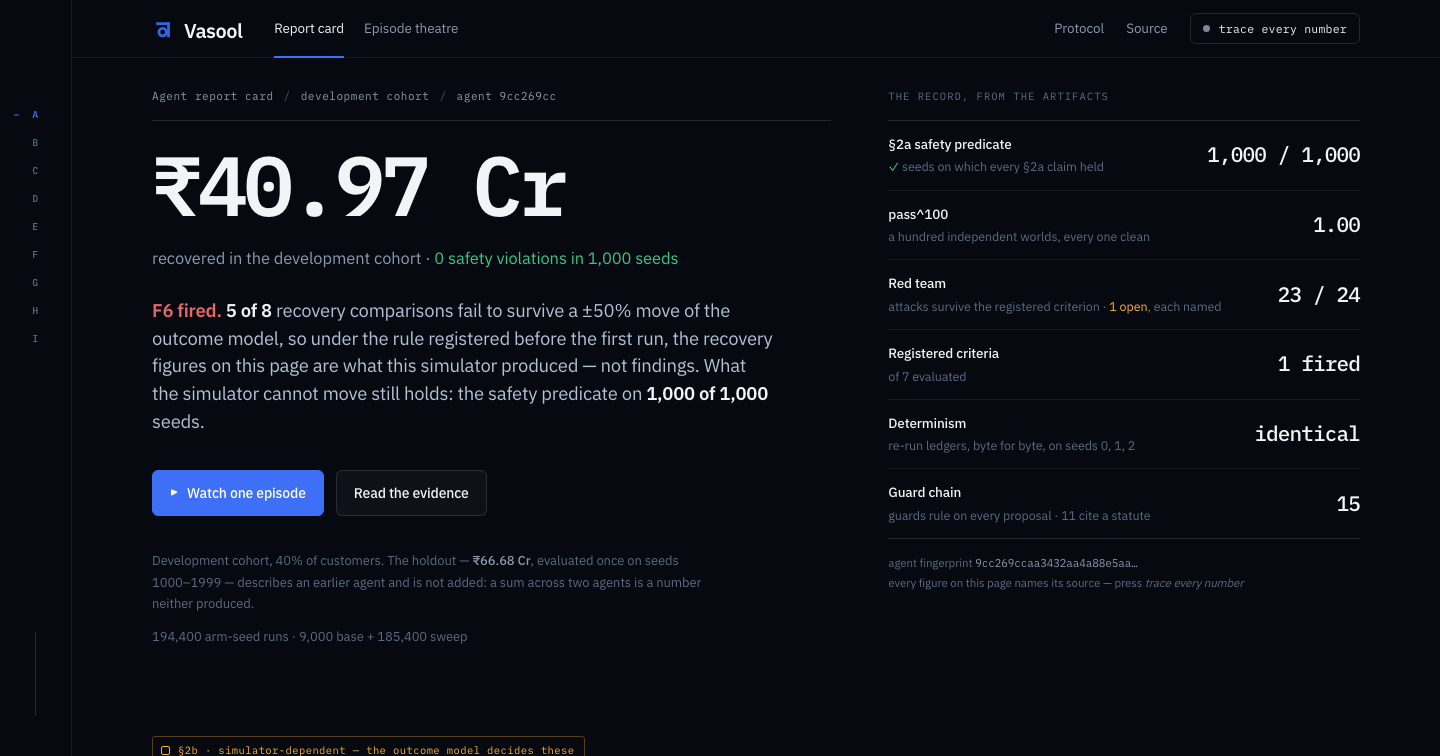
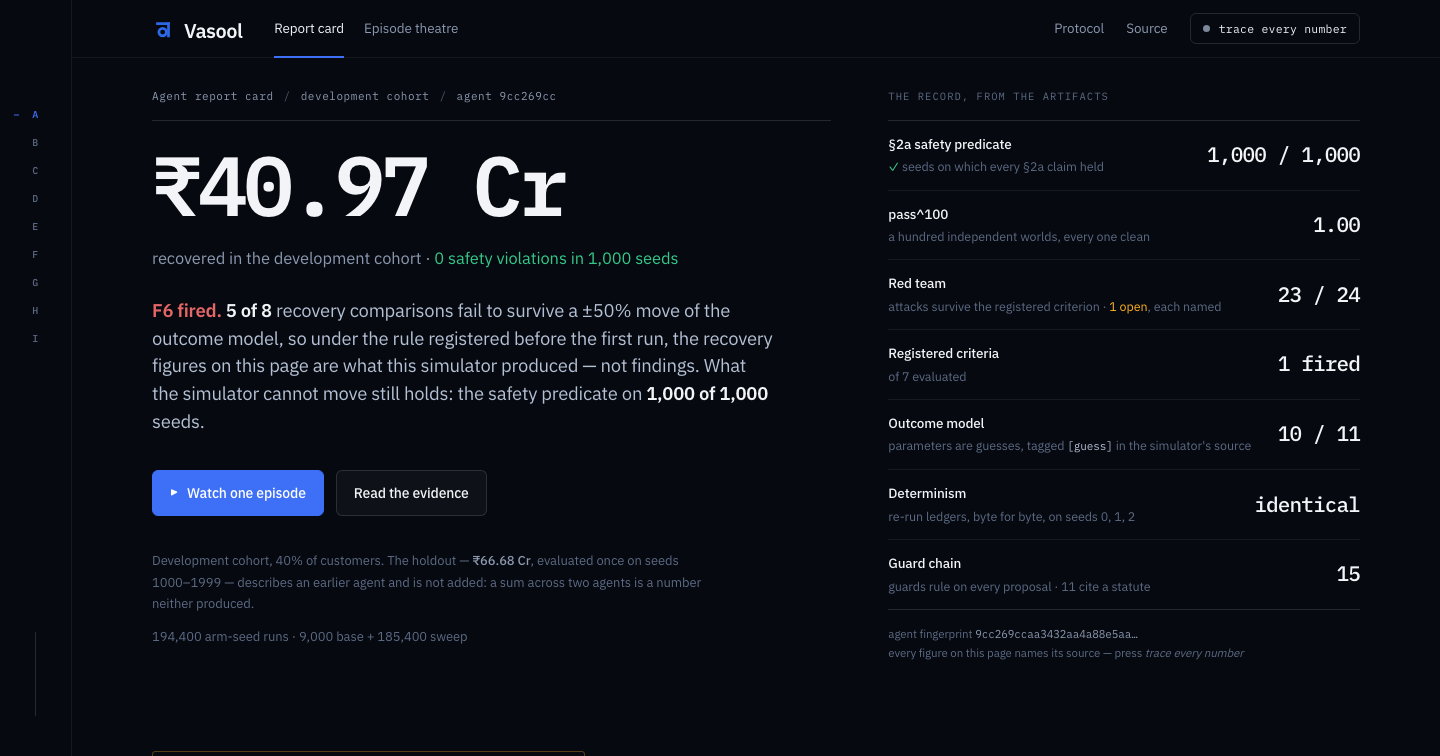
The guess fraction was typed in four places, and three were wrong
§4 registered the outcome model's [guess] fraction as 10/11 on 2026-09-16,
and it requires the fraction to appear "in the report card as prominently as
the recovery rate". The page never met that: its only copy was a sentence
typed into the sensitivity exhibit, which still said "eight of the nine", as
did README's limits section and the sentence under §4's own parameter table.

  - tools/report.py counts the fraction from OUTCOME_PARAMETERS' own tags, the
    registry tests/windtunnel/test_parameters.py already holds §4 to. The
    record beside the headline now carries it, traced to that registry, and
    the sensitivity exhibit's caption reads it from the same place.

  - §4's table sentence says ten of the eleven and names the three parameters
    §10 added since the table was registered. Recorded as §10's sixty-sixth
    row, POST-HOC No: no value, tag or threshold changes.

  - README: "would recover 49% of your failed payments" becomes 43%, and the
    sentence about where the fraction appears now describes what the page
    does.

Two tests, because none of this was caught. One holds README's sentence and
the renderer's count to §4. The other reads any whole-number "recover N%" in
README against the manifest: the percentage check needed two decimals, so
"49%" survived four re-runs. test_parameters' table parser used the old
sentence as its end marker and now follows the new one.

A fourth copy, the module docstring in windtunnel/parameters.py that still
[…]

diff --git a/docs/index.html b/docs/index.html
@@ -12,7 +12,7 @@
     <meta property="og:description" content="A payment-recovery agent measured against a protocol registered before it ran: what it recovered, what it refused, what still beats it, and a ledger you can verify in your browser.">
     <meta property="og:url" content="https://sriramvarun0636.github.io/Vasool/">
     <meta property="og:image" content="https://sriramvarun0636.github.io/Vasool/assets/dashboard.png">
-    <meta property="og:image:alt" content="The Vasool report card: Rs 40.97 Cr recovered in the development cohort with 0 safety violations in 1,000 seeds. Beneath it, falsification criterion F6 has fired — 5 of 8 recovery comparisons fail to survive a ±50% move of the outcome model — so the recovery figures are presented as what this simulator produced, not findings. The fresh holdout's Rs 66.68 Cr describes an earlier agent and is not added. Beside the headline, the record read off the artifacts: the section 2a safety predicate held on 1,000 of 1,000 seeds, pass^100 of 1.00, 23 of 24 attacks survived the registered criterion with 1 open and named, 1 registered criterion fired of the 7 evaluated, re-run ledgers identical byte for byte, and a chain of 15 guards of which 11 cite a statute.">
+    <meta property="og:image:alt" content="The Vasool report card: Rs 40.97 Cr recovered in the development cohort with 0 safety violations in 1,000 seeds. Beneath it, falsification criterion F6 has fired — 5 of 8 recovery comparisons fail to survive a ±50% move of the outcome model — so the recovery figures are presented as what this simulator produced, not findings. The fresh holdout's Rs 66.68 Cr describes an earlier agent and is not added. Beside the headline, the record read off the artifacts: the section 2a safety predicate held on 1,000 of 1,000 seeds, pass^100 of 1.00, 23 of 24 attacks survived the registered criterion with 1 open and named, 1 registered criterion fired of the 7 evaluated, 10 of the 11 outcome-model parameters tagged as guesses, re-run ledgers identical byte for byte, and a chain of 15 guards of which 11 cite a statute.">
     <meta name="twitter:card" content="summary_large_image">
     <link rel="preconnect" href="https://fonts.googleapis.com">
     <link rel="preconnect" href="https://fonts.gstatic.com" crossorigin>
@@ -1125,6 +1125,9 @@
     <script type="application/json" id="chain-data">
 {"guards": [{"id": "G01", "name": "IdempotencyGuard", "statute": null}, {"id": "G02", "name": "RiskBlockGuard", "statute": "Card network norms on retrying declined authorisations"}, {"id": "G03", "name": "ConsentGuard", "statute": "DPDP Act 2023 s.6 + DPDP Rules 2025"}, {"id": "G14", "name": "MandateStateGuard", "statute": "RBI E-mandate Framework 2026 \u00a74 \u2014 debit only under a live mandate"}, {"id": "G04", "name": "RetryCapGuard", "statute": null}, {"id": "G05", "name": "PromiseToPayGuard", "statute": "RBI Fair Practices Code (fair dealing)"}, {"id": "G06", "name": "DNDGuard", "statute": "TRAI TCCCPR 2018 (as amended Feb 2025)"}, {"id": "G07", "name": "FrequencyCapGuard", "statute": "RBI Fair Practices Code (anti-harassment)"}, {"id": "G08", "name": "ContactWindowGuard", "statute": "RBI Fair Practices Code \u00b655"}, {"id": "G15", "name": "AutopayPeakHoursGuard", "statute": "NPCI OC-215A/2025-26 \u2014 no Autopay execution or notice request at peak"}, {"id": "G09", "name": "PreDebitNoticeGuard", "statute": "RBI E-mandate Framework 2026 \u00a76(a) \u2014 pre-debit notification, 24 hours"}, {"id": "G10", "name": "AFAThresholdGuard", "statute": "RBI E-mandate Framework 2026 \u00a78 \u2014 AFA above \u20b915,000, or \u20b91,00,000 by category"}, {"id": "G11", "name": "DLTTemplateGuard", "statute": "TRAI TCCCPR \u2014 DLT template registration (Feb 2025 amendment)"}, {"id": "G12", "name": "SpendCapGuard", "statute": null}, {"id": "G13", "name": "HumanApprovalGuard", "statute": null}], "count": 15, "statutes": 11}
     </script>
+    <script type="application/json" id="model-data">
+{"guessed": 10, "total": 11, "tags": {"retry_success_transient": "guess", "retry_success_liquidity_in_window": "guess", "retry_success_liquidity_out_of_window": "guess", "retry_success_instrument_dead": "derived", "reauth_link_completion": "guess", "reattempt_link_completion": "guess", "out_of_band_per_episode_day": "guess", "salary_window_uplift": "guess", "retry_success_unpriced_class": "guess", "upi_in_flight_debited_rate": "guess", "status_answer_pending_rate": "guess"}}
+    </script>
 
     <nav id="spine" aria-label="Exhibits">
         <!-- Generated by the script from the exhibits present -->
@@ -1348,7 +1351,7 @@
                 <h2 class="exhibit-title">EXHIBIT C &mdash; <span class="ex-name">Does It Survive the Sweep?</span></h2>
             </header>
             <p class="viz-caption">
-                Eight of the nine outcome parameters are guesses. So every registered parameter is
+                <span id="guess-lede">Most of the outcome parameters are guesses.</span> So every registered parameter is
                 swept independently at &minus;50%, &minus;25%, +25% and +50% of its value, 9 arms at a
                 time, and each comparison is re-tested in every configuration. A cell is marked only
                 when the comparison <em>fails to survive</em>; the unremarkable majority stays
@@ -1679,6 +1682,7 @@ and it is unreachable from all 10 execution roots.
         // by tools/report.py at build time. It used to be a hand-written list
         // in this file -- the kind of copy INC-008 was about.
         const CHAIN = readArtifact("chain-data");
+        const MODEL = readArtifact("model-data");
 
         // --- CRYPTO HELPER ------------------------------------------------------
         async function hashString(str) {
@@ -1713,7 +1717,9 @@ and it is unreachable from all 10 execution roots.
             return node;
         }
         function words(n) {
-            const w = ["no", "one", "two", "three", "four", "five", "six", "seven", "eight", "nine", "ten"];
+            const w = ["no", "one", "two", "three", "four", "five", "six", "seven", "eight", "nine", "ten",
+                       "eleven", "twelve", "thirteen", "fourteen", "fifteen", "sixteen", "seventeen",
+                       "eighteen", "nineteen", "twenty"];
             return (n >= 0 && n < w.length) ? w[n] : new Intl.NumberFormat().format(n);
         }
         const nf = (n) => new Intl.NumberFormat().format(n);
@@ -1750,7 +1756,8 @@ and it is unreachable from all 10 execution roots.
                 holdout: "out/holdout/evaluation.json",
                 redteam: "out/adversary/redteam.json",
                 shadow: "out/shadow/classifier_comparison.json",
-                chain: "vasool/policy/registry.py (GUARD_CHAIN)"
+                chain: "vasool/policy/registry.py (GUARD_CHAIN)",
+                model: "windtunnel/parameters.py (OUTCOME_PARAMETERS)"
             };
             function traceIn(artifact, el, path, text) {
                 if (!el) return el;
@@ -1969,6 +1976,13 @@ and it is unreachable from all 10 execution roots.
                     [`of ${fKeys.length - idle.length} evaluated`,
                      idle.length ? ` · <span class="warn">${idle.join(", ")} not evaluated here</span>` : ""]]);
             }
+            // §4 requires the guess fraction "in the report card as prominently as
+            // the recovery rate". Read from the parameters' own tags, not typed.
+            if (typeof MODEL?.guessed === "number" && typeof MODEL?.total === "number") {
+                glanceRows.push(["Outcome model",
+                    traceIn("model", mk("span"), "guessed", `${MODEL.guessed} / ${MODEL.total}`),
+                    ["parameters are guesses, tagged <code>[guess]</code> in the simulator's source"]]);
+            }
             if (EVAL?.determinism) {
                 const det = EVAL.determinism;
                 glanceRows.push(["Determinism",
@@ -1990,6 +2004,15 @@ and it is unreachable from all 10 execution roots.
                 row.append(l, v, s);
                 glance.appendChild(row);
             });
+            const guessLede = document.getElementById("guess-lede");
+            if (guessLede && typeof MODEL?.guessed === "number" && typeof MODEL?.total === "number") {
+                const lead = words(MODEL.guessed);
+                compose(guessLede, [
+                    traceIn("model", mk("span"), "guessed",
+                            `${lead.charAt(0).toUpperCase()}${lead.slice(1)} of the ${words(MODEL.total)}`),
+                    " outcome parameters are guesses."
+                ]);
+            }
             const glanceFoot = document.getElementById("glance-foot");
             if (glanceFoot && typeof EVAL.agent_fingerprint === "string") {
                 compose(glanceFoot, [

diff --git a/tests/test_report.py b/tests/test_report.py
@@ -137,6 +137,9 @@ class TestTraceDiscipline:
             if artifact == "chain":
                 assert path in {"count", "statutes"}, f"chain has no {path!r}"
                 continue
+            if artifact == "model":
+                assert path in {"guessed", "total"}, f"the outcome model has no {path!r}"
+                continue
             source = files[artifact]
             if not source.exists():
                 continue
@@ -364,6 +367,50 @@ class TestReadmeDoesNotDrift:
             f"README prints \u20b9{stale} Cr, which no manifest produces. "
             f"Manifest figures are {sorted(allowed)}."
         )
+
+    def test_a_whole_number_recovery_rate_is_still_true(self, report, readme):
+        """A rate written without decimals still has to be one the manifest supports.
+
+        The percentage check above reads figures with two decimals, so "would
+        recover 49% of *your* failed payments" sat in the limits section for
+        four re-runs after Vasool stopped recovering 49% of anything. Any
+        "recover N%" is read here against every arm's rate, rounded.
+        """
+        rates = {round(a["recovery_rate_mean"] * 100) for a in report["per_arm"].values()}
+        for claimed in re.findall(r"\brecover\w*\s+(\d{1,3})% of", readme):
+            assert int(claimed) in rates, (
+                f"README says an arm recovers {claimed}%; the manifest's rates round to {sorted(rates)}"
+            )
+
+    def test_the_guess_fraction_is_quoted_as_section_4_states_it(self, readme):
+        """README and the dashboard both carry §4's guess fraction.
+
+        tests/windtunnel/test_parameters.py holds §4's fraction to the tags in
+        the simulator's source; nothing held the other copies to §4, and on
+        2026-09-22 README and the dashboard were both found still saying
+        "eight of the nine" six days after it became 10/11. README's sentence
+        is read here, and the dashboard's figure is the renderer's own count.
+        """
+        words = ["zero", "one", "two", "three", "four", "five", "six", "seven", "eight", "nine",
+                 "ten", "eleven", "twelve", "thirteen", "fourteen", "fifteen", "sixteen",
+                 "seventeen", "eighteen", "nineteen", "twenty"]
+        protocol = (REPO_ROOT / "docs" / "EVALUATION.md").read_text()
+        match = re.search(r"fraction in the outcome model — (\d+)/(\d+) —", protocol)
+        assert match, "§4 no longer states a guess fraction"
+        guessed, total = (words[int(g)] for g in match.groups())
+        phrase = f"{guessed} of the {total} outcome parameters are"
+        assert phrase in readme.lower(), f"README.md does not say \"{phrase.capitalize()}…\", as §4 does"
+
+        import importlib.util
+        spec = importlib.util.spec_from_file_location("_report_model", REPO_ROOT / "tools" / "report.py")
+        module = importlib.util.module_from_spec(spec)
+        spec.loader.exec_module(module)
+        model = module.outcome_model()
+        assert (model["guessed"], model["total"]) == tuple(int(g) for g in match.groups()), (
+            f"the dashboard would print {model['guessed']} / {model['total']}; §4 says {match.group(1)}/{match.group(2)}"
+        )
+        template = (REPO_ROOT / "tools" / "templates" / "report.html.j2").read_text()
+        assert "of the nine outcome parameters" not in template.lower(), "the template types the fraction again"
 
     def test_every_criterion_verdict_matches_the_manifest(self, report, readme):
         """The falsification table says, per criterion, whether it fired.

diff --git a/tests/windtunnel/test_parameters.py b/tests/windtunnel/test_parameters.py
@@ -55,7 +55,7 @@ def _rows(section: str, next_section: str) -> list[list[str]]:
 def _section_4_table() -> dict[str, tuple[float, str]]:
     """§4's registered parameters: label -> (value, provenance tag)."""
     registered = {}
-    for label, value, provenance in _rows("## 4. The outcome model", "**Eight of the nine"):
+    for label, value, provenance in _rows("## 4. The outcome model", "**Ten of the eleven"):
         number = float(re.search(r"\*\*([\d.]+)", value).group(1))
         tag = re.search(r"\[(\w+)\]", provenance).group(1)
         registered[label] = (number, tag)
@@ -116,17 +116,19 @@ class TestSection4Correspondence:
         """§4 calls the outcome model's guess fraction "itself a headline
         result" and the report card prints it as prominently as the recovery
         rate. It counts the whole outcome model — the eight registered rows
-        plus retry_success_unpriced_class, added under §10 — so adding a
-        parameter by amendment moves it, and a parameter added without moving
-        it fails here rather than quietly making the claim false."""
+        plus every parameter §10 has added since, retry_success_unpriced_class
+        and the two UPI Autopay rates — so adding a parameter by amendment
+        moves it, and a parameter added without moving it fails here rather
+        than quietly making the claim false."""
         guesses = [p for p in OUTCOME_PARAMETERS.values() if p.provenance is Provenance.GUESS]
         assert (len(guesses), len(OUTCOME_PARAMETERS)) == _registered_guess_fraction()
 
     def test_the_world_parameters_are_not_inside_that_fraction(self):
-        """§10's world-shape parameters are guesses too, and there are twelve
-        of them. The document scopes its headline fraction to the outcome
-        model in as many words; if the report card ever prints 8/9 over the
-        full registry it will be printing 20/21 and calling it 8/9."""
+        """§10's world-shape parameters are guesses too. The document scopes
+        its headline fraction to the outcome model in as many words, so a report
+        card that counted the full registry would print a different fraction
+        under the same name. (This docstring used to carry both counts; they
+        went stale twice, so it no longer does.)"""
         _, total = _registered_guess_fraction()
         assert total == len(OUTCOME_PARAMETERS) < len(OUTCOME_PARAMETERS) + len(WORLD_PARAMETERS)
 

diff --git a/tools/report.py b/tools/report.py
@@ -64,6 +64,26 @@ def guard_chain() -> dict:
     }
 
 
+def outcome_model() -> dict:
+    """The outcome model's `[guess]` fraction, counted from the parameters' own tags.
+
+    §4 calls it "itself a headline result" and requires it to appear "in the
+    report card as prominently as the recovery rate". Until 2026-09-22 the page
+    carried it only as a sentence typed into the sensitivity exhibit, which
+    still said "eight of the nine" six days after §10's 2026-09-16 row moved
+    the fraction to 10/11. It is counted here from `OUTCOME_PARAMETERS` — the
+    registry tests/windtunnel/test_parameters.py holds §4's own figure to — so
+    the page, the protocol and the code cannot disagree about it.
+    """
+    from windtunnel.parameters import OUTCOME_PARAMETERS, Provenance
+
+    return {
+        "guessed": sum(p.provenance is Provenance.GUESS for p in OUTCOME_PARAMETERS.values()),
+        "total": len(OUTCOME_PARAMETERS),
+        "tags": {name: p.provenance.value for name, p in OUTCOME_PARAMETERS.items()},
+    }
+
+
 def build_report(json_path: pathlib.Path, out_path: pathlib.Path) -> None:
     if not json_path.exists():
         print(f"error: {json_path} not found. run 'make sweeps' first.", file=sys.stderr)
@@ -351,6 +371,7 @@ and it is unreachable from all {len(g['acting_roots'])} execution roots.
         redteam_json=json.dumps(redteam_data),
         holdout_json=json.dumps(holdout_data),
         chain_json=json.dumps(guard_chain()),
+        model_json=json.dumps(outcome_model()),
         logo_svg=logo_svg,
         hero_scope=hero_scope,
         airgap_svg=airgap_svg,

diff --git a/docs/EVALUATION.md b/docs/EVALUATION.md
@@ -206,10 +206,11 @@ with no tag fails a test.
 | P(out-of-band settlement, per episode-day) | **0.02** | `[guess]` |
 | Salary-window balance uplift multiplier | **2.0×** | `[guess]` |
 
-**Eight of the nine parameters are `[guess]`.** The eight rows above are
-seven guesses and one definitional zero; the ninth,
-`retry_success_unpriced_class`, was added under §10 after this table was
-registered and is a guess as well. Conditional retry-success probabilities at
+**Ten of the eleven parameters are `[guess]`.** The eight rows above are
+seven guesses and one definitional zero; `retry_success_unpriced_class` was
+added under §10 after this table was registered, and
+`upi_in_flight_debited_rate` and `status_answer_pending_rate` arrived with UPI
+Autopay (§10, 2026-09-16). All three are guesses as well. Conditional retry-success probabilities at
 this granularity are not published by anyone — not by NPCI, not by the
 PA/PGs, not in any paper I could find — and inventing a citation for them
 would be the first dishonest sentence in this repository. So they are my
@@ -510,6 +511,7 @@ replaces for every row below, retroactively (§10, 2026-08-24).
 | 2026-09-21 | **The production tranche and A01, registered together because they move the fingerprint once.** §7's grid was just run at power, and any change under `vasool/` or `windtunnel/` makes all 185,400 of its rows foreign. So the two remaining pieces of code work are registered as one batch, with the re-runs they cost named here rather than discovered afterwards. **Part one — what production needs, and the one thing it will not get.** A `FactStore` for a real deployment (`vasool/policy/sql_store.py`), a **composition root** that is the only module in the system permitted to read the environment, a **`tick()` driver** that advances due work on a schedule and uses `vasool/policy/partition.py` to take only the identities this worker owns, and a **startup check** that refuses to boot without `VASOOL_ID_PEPPER` or with the public test pepper — `customer_id` is an HMAC under it, §3c's split is keyed on that id, and a process that starts with the wrong one writes a ledger nobody can join to anything. **The store is SQLite, not Postgres, and the reason is registered rather than quietly chosen.** `vasool/policy/facts.py` has said "SQLite in production, a dict in the simulator" since it was written, and `vasool/events/store.py` is already SQLite. CI runs the whole suite from a fresh clone **with nothing configured**, which is the property INC-007 exists to protect; a Postgres path could not be exercised there without a service, and an unexercised persistence layer is exactly the unverified claim this repository forbids. Postgres is therefore **not built**, and the limit is stated plainly: one writer, one machine. The partition helper ships with the driver so that the *shape* is right — ownership keyed on `identity_id`, the race unreachable rather than guarded against — and a second process is a Postgres row lock away, not a redesign. **Part two — A01, the last open attack, and what it costs today.** An out-of-band payment carries no join key: no `vasool_entity_id`, no id any `RetryIndex` knows, so `settle_from_webhook` correctly declines to attribute it and the episode stays open while the merchant already has the money (docs/taxonomy.md §9.10). **The exposure is measured before the fix, from re-run #7's own shards:** an out-of-band payment lands on **108,599 of Vasool's 354,788 episodes — 30.6%** — and Vasool takes **34,666 actions after the money had already arrived**. That is the cost of the open attack, in the manifest, and it has been reported as a limit for a month without a number on it. **What is built, and what it deliberately does not do.** A rail-side port, `SettlementLookup`, with a null adapter that answers nothing — so production behaviour is unchanged until somebody wires a real one, the same shape as the identity resolver and the DND registry. When it is wired, reconciliation runs inside `tick()`: for an open episode past its first attempt, ask what the rail captured for that customer since the failure, discard every id the `RetryIndex` claims, and if a payment matches the episode's amount inside a registered window, **halt the episode and escalate it to a person**. It does **not** mark the episode RECOVERED. A matching amount from the same customer in the same window is evidence, not a join key — a second purchase at the same price collides with it — and the failure directions are asymmetric: continuing to chase money already paid is a double-collection hazard, while stopping and asking a human costs at most a delayed recovery. The conservative direction is the one this takes, and the same argument as the identity resolver's refusal to merge on a similarity score. **Registered expectations, before any of it is written.** **(1) A01 flips FAILS → SURVIVES** and **A02, its registered control, must keep surviving** — a fix that closes one by breaking the other has moved the failure. The other twenty-one verdicts must not move. **(2) The registered negative:** `naive_retry` and `retry_plus_contact` are §5's policy-free baselines — no taxonomy, no chain — and reconciliation is policy, so they **must reproduce re-run #7's rows byte for byte, 2,000 of 9,000**. This is the seam re-run #4 got wrong in the other direction, and it is registered explicitly this time: an arm with no taxonomy does not get the taxonomy's hard stop. **(3) Everything else moves, and in a named direction:** `actions_after_out_of_band` **falls sharply** for `vasool`, `vasool_ungated` and A1–A5 — from 34,666 for Vasool — because that counter is the behaviour being fixed. **(4) Vasool's recovery rate is registered to fall, not rise.** An episode that is halted and escalated is not recovered by the agent, and some of those halts will be wrong. The flattering reading — "it recovers more because it stops wasting attempts" — is foreclosed here. **(5) §2a on 1,000 of 1,000 seeds, `pass_k.100` = 1.00, and no criterion firing.** **What it costs.** The production tranche alone is registered as **evaluation-inert**: it adds a store and a driver that no evaluated path calls, so re-run #8 must reproduce re-run #7 on **all 9,000 rows**, and a single differing field is a defect in it. A01 then changes behaviour deliberately, so §7's grid is **re-run in full at power** — another nine hours — rather than adopted, because adoption is sound only where a recomputation shows the rows unchanged and these rows must change. F6's verdict is recomputed on the new agent and reported whichever way it falls. | **Registering the exposure before the fix is the point of this row.** A01 has been open since the attack suite was written and reported as a limit in every README since; "the agent goes on chasing money the merchant already has" is a sentence, and **34,666 actions after the money arrived** is a measurement. Writing it down now means the fix is scored against a number that existed before it. **On SQLite.** The alternative was to write a Postgres adapter nothing in CI could run, describe the system as production-ready on that basis, and hope. INC-007 is the entry in `POSTMORTEM.md` about exactly that failure — an apparatus that runs only where it was built measures the machine it was built on. **On escalating rather than closing.** The temptation is to mark the episode recovered: it reads better, and it would move the headline up. It would also be the agent asserting that money arrived on the strength of an amount match, in a ledger whose whole claim is that every figure is derivable. A person deciding is slower and is the only defensible answer when the join key genuinely does not exist. | **No** — every expectation, direction and threshold above was written before any of this code existed. The exposure figures (108,599 episodes, 34,666 actions) are read from re-run #7's committed shards, which predate the fix and are what it will be scored against. |
 | 2026-09-22 | **The production tranche and A01 land: re-run #8 was inert on every row, re-run #9 closed A01 and held every expectation the base protocol can see, and one metric hid 17,723 terminal episodes until the numbers were read.** **Re-run #8** — the store, the composition root, the driver and the startup check, with nothing evaluated calling any of them — reproduced re-run #7 **byte for byte: 9,000 rows, 225,000 field comparisons, zero differences**, as registered. **Re-run #9** — reconciliation wired, fingerprint `9cc269cc…`. **(1) held:** A01 flips FAILS → SURVIVES, its control A02 keeps surviving, and the other twenty-one verdicts do not move. A27 — the same attack with no settlement lookup wired, which is the shipped default — is registered FAILS and fails, so the suite still carries an open attack and names it: **23 of 24 survive**. **(2) held:** `naive_retry` and `retry_plus_contact` reproduce re-run #7's rows **byte for byte, 2,000 of 9,000**; neither reconciles, and they still take 1,727 and 2,705 actions after the money arrived. **(3) held:** actions after the money had arrived fall from **34,666 to 0** for Vasool, and to 0 for `vasool_ungated` and every one of A1–A5. **(4) held, in the registered direction:** Vasool's recovery rate falls **3.64 points, 46.63% → 42.99%**, its recovered episodes by **12,904**, and **17,723** more episodes are handed to a person, 19,990 → 37,713. Measured with reconciliation switched off, **91 of 1,240** of Vasool's recoveries across three seeds were on episodes the customer had already paid; that count is now zero, so the recovery that disappeared is collection the agent now declines to make twice. `naive_retry` moves from 0.90 points behind to **2.74 ahead** [+2.55, +2.92], on rows that did not change. **(5) partly held:** §2a held on 1,000 of 1,000 seeds, `pass_k.100` is 1.00, and F1–F5 and F7 did not fire. **F6, which needs §7's grid, fired** on the full re-run this batch registered — the next row — and is counted here as a broken expectation, not one the wording can be read around. **INC-013, caught before anything was published.** Re-run #9's first pass showed recovered episodes down 12,904 and `awaiting` up 13,388 while `escalated` moved by 52: the new receipt outcome, `MONEY_MAY_HAVE_ARRIVED`, was in no bucket `windtunnel/metrics.py` counts, and because `awaiting` is a residual the partition summed anyway. The membership test was fixed and the run repeated; the ledger was right throughout (POSTMORTEM.md). **Two limits on the closure** (docs/taxonomy.md §9.10): the port's default answers nothing, so a deployment that wires no lookup is A27; and in this universe every out-of-band payment is for one episode's own amount, drawn from a continuous distribution, so the collision the design accepts never occurs — **201 of 201 halts across five seeds** were on episodes that had genuinely been paid. That is a property of the universe, not evidence about a real book. **What this makes stale:** the fresh holdout of 2026-09-20 and the grid of 2026-09-21 describe `fb76d42e…`; both are reported as describing an earlier agent, and the holdout's single execution is spent and is not repeated. | **The headline fell, as registered, and the fall is the result.** Expectation (4) foreclosed the flattering reading before the code existed, and 91 of 1,240 is what the lost recovery was made of: money the customer had already paid by another route. **On INC-013.** Every check in the repository passed while 17,723 episodes that had reached a person were counted as still in flight, because the one check on the partition is a sum and a residual always sums. The number that was supposed to move and didn't is what found it, which is the argument for registering directions and not only thresholds. | **Partly** — every expectation, direction and threshold is the 2026-09-21 row's, written before any of this code existed, and none is revised here. The INC-013 fix was made after reading re-run #9's output, so it is disclosed as a change that followed a measurement: it corrects which bucket one outcome is counted in and moves no threshold, but the order it happened in is recorded rather than smoothed over. |
 | 2026-09-22 | **§7's grid, re-run at power against the agent that closed A01: F6 fires — 5 of 8, and 4 of 7 under the earlier denominator — so by §9 the evaluation is presented as an instrument, not a set of conclusions.** `tools/evaluate.py --sweeps` under fingerprint `9cc269cc…`: **185,400 runs in 8 hours 9 minutes**, 103 configurations (102 swept + the reference) × 9 arms × 200 seeds, run in a working copy of the tranche while main still carried the agent before it. §2a held on 1,000 of 1,000 seeds inside the run. **F6: 5 of 8 flipped, threshold 5 — fired.** **It does not depend on A4.** On the 2026-08-24 denominator of seven, which set A4 aside, it is 4 of 7 against that row's threshold of 4, and fires. Neither denominator is amended here. **The difference from the previous grid is one arm, A2**, which survived all 102 configurations against `fb76d42e…` and fails five against this agent: `retry_success_liquidity_in_window@0.5` and `@0.75`, `retry_success_liquidity_out_of_window@1.5`, `reattempt_link_completion@1.5`, and `out_of_band_per_episode_day@1.5`. **Reproduced before this row was written:** the last of those, recomputed from nothing in a fresh copy of the tree — no shards, no `out/` — together with the other three points of the same parameter and the reference, matched the grid's shards **byte for byte: 45 files, 9,000 rows, 234,000 field comparisons, zero differences**, and the recomputed verdict for A2 at that point is again *does not survive*. **The full tally:** A1 flips in **15** configurations across ten knobs (2 before); `naive_retry` in **6** (24 before — and the comparison itself has changed sign: Vasool now trails it by 2.616 points on the reference, where it led by 1.038); A2 in **5** (0 before); A3 in **1**, `upi_mix:recoverable_heavy` (2 before — `mandate_share@0.5` no longer flips it); A4 in **all 102**, structurally. **Never, in any configuration:** `retry_plus_contact` (−21.886 points on the reference), `vasool_ungated` (−6.890) and A5 (+15.129). **The consequence, as §9 registered it:** *the evaluation does not support conclusions and is presented as an instrument-building exercise instead.* The README's opening, the dashboard's sentence under the headline and the falsification table now read that way; the recovery comparisons are reported as what this simulator produced, and the §2a claims, which no outcome model moves, are reported as claims. | **The pattern is the part worth reading, and it runs against the agent.** The comparisons that are unflattering to Vasool — the incumbent's lead, the price of the guards — and the largest ablation, escalation, survive every move of every guess; the ones that argue for its design — the taxonomy, salary timing, the flagship claim, the lead over a strawman — each fail somewhere. **On A2.** Salary-aware timing was the one design claim that had survived everything. Re-run #8 showed the rest of the tranche is inert and INC-013's fix does not touch recovery rate, so reconciliation is the only behavioural change between the two grids; one of A2's five failures is the out-of-band rate, the parameter reconciliation made the agent answer to. The other four are liquidity retry-success rates and re-attempt link completion, and this row does not claim to know why those moved. **On not amending the rule.** A4 is dead weight in the denominator, which is why the 2026-08-24 reading is reported beside the live one: both fire, so no choice of rule rescues the conclusions, and none was sought. **On §9.** This is the first criterion in the protocol to fire. What that means was written before the first run, and it is applied as written. | **No** — the grid, the survival rule, both denominators, both thresholds and §9's consequence were registered before this run (§10, 2026-08-24, 2026-08-25, 2026-09-19, 2026-09-20 and 2026-09-21). The one act after the run is the reproduction, which recomputes and cannot revise. |
+| 2026-09-22 | **§4's table sentence is corrected to the fraction §4 already registers, and the report card now shows that fraction where §4 says it must.** The 2026-09-16 row moved the outcome model's `[guess]` fraction to **10/11** and updated §4's headline sentence to say so. The sentence under the parameter table still read "eight of the nine", and so did README's limits section and the dashboard's sensitivity exhibit, where it was typed into the caption. §4 also requires the fraction to appear "in the report card as prominently as the recovery rate", and the page did not meet that: the caption sentence was its only copy. From this row `tools/report.py` counts the fraction from `OUTCOME_PARAMETERS`' own tags — the registry `tests/windtunnel/test_parameters.py` already holds §4's figure to — and the record beside the headline carries it, traced to that registry. A test now holds README's sentence to §4 as well, and another reads any whole-number "recover N%" in README against the manifest, because "would recover 49% of *your* failed payments" survived four re-runs by carrying no decimals. `windtunnel/parameters.py`'s module docstring still says "8/9"; it is inside the fingerprint, so it moves with the next code change rather than costing a re-run by itself. | A number the protocol calls a headline result had four copies and one test, and three of the copies were wrong for six days. The page is changed to meet §4, not §4 to excuse the page. | **No** — no value, tag, parameter or threshold changes; the fraction is the one the 2026-09-16 row registered. |
 
 Probabilities clamp to [0,1] under sweep, so +50% on 0.97 registers as 1.0
 rather than 1.455.

diff --git a/README.md b/README.md
@@ -45,7 +45,7 @@
 </p>
 
 <a href="https://sriramvarun0636.github.io/Vasool">
-  <img src="docs/assets/dashboard.png" width="100%" alt="The Vasool report card: ₹40.97 Cr recovered in the development cohort with 0 safety violations in 1,000 seeds. Beneath it, falsification criterion F6 has fired — 5 of 8 recovery comparisons fail to survive a ±50% move of the outcome model — so the recovery figures are presented as what this simulator produced, not findings. The fresh holdout's ₹66.68 Cr describes an earlier agent and is not added. Beside the headline, the record read off the artifacts: the §2a safety predicate held on 1,000 of 1,000 seeds, pass^100 of 1.00, 23 of 24 attacks survived the registered criterion with 1 open and named, 1 registered criterion fired of the 7 evaluated, re-run ledgers identical byte for byte, and a chain of 15 guards of which 11 cite a statute." onerror="this.style.display='none'">
+  <img src="docs/assets/dashboard.png" width="100%" alt="The Vasool report card: ₹40.97 Cr recovered in the development cohort with 0 safety violations in 1,000 seeds. Beneath it, falsification criterion F6 has fired — 5 of 8 recovery comparisons fail to survive a ±50% move of the outcome model — so the recovery figures are presented as what this simulator produced, not findings. The fresh holdout's ₹66.68 Cr describes an earlier agent and is not added. Beside the headline, the record read off the artifacts: the §2a safety predicate held on 1,000 of 1,000 seeds, pass^100 of 1.00, 23 of 24 attacks survived the registered criterion with 1 open and named, 1 registered criterion fired of the 7 evaluated, 10 of the 11 outcome-model parameters tagged as guesses, re-run ledgers identical byte for byte, and a chain of 15 guards of which 11 cite a statute." onerror="this.style.display='none'">
 </a>
 
 <sub><i>The top of <a href="https://sriramvarun0636.github.io/Vasool">the live dashboard</a> &mdash;
@@ -234,7 +234,7 @@ git status --short
 
 | Command | What it does |
 | :--- | :--- |
-| `pytest` | 2,242 tests — the same run CI makes on every push, from a fresh clone with no secrets |
+| `pytest` | 2,244 tests — the same run CI makes on every push, from a fresh clone with no secrets |
 | `make demo` | one recovery episode, narrated, replayed from the payloads on disk |
 | `make redteam` | 23 adversarial attacks scored against the registered survival criterion, rewriting `out/adversary/redteam.json` |
 | `REPEATS=1 CELL=payment_failed/gateway make shadow` | the rules classifier against the LLM, replayed from the committed cassettes, rewriting `out/shadow/` |
@@ -588,14 +588,14 @@ Four attacks — A15, A16, A18, A19 — **were** open and are now closed. A queu
 
 The single most important section, and it is [in the protocol](docs/EVALUATION.md) rather than here:
 
-- **Not** that Vasool would recover 49% of *your* failed payments. It measures a model, and the model is mine.
-- **Eight of the nine outcome parameters are `[guess]`** — my judgement, tagged as such in the simulator's own source, where a parameter with no provenance tag fails a test. Nobody publishes conditional retry-success probabilities at this granularity, and inventing a citation would have been the first dishonest sentence in the repository.
+- **Not** that Vasool would recover 43% of *your* failed payments. It measures a model, and the model is mine.
+- **Ten of the eleven outcome parameters are `[guess]`** — my judgement, tagged as such in the simulator's own source, where a parameter with no provenance tag fails a test. Nobody publishes conditional retry-success probabilities at this granularity, and inventing a citation would have been the first dishonest sentence in the repository.
 - **Nine of ten Razorpay failure reasons are `_SIMULATED`, and the UPI vocabulary is cited, not observed.** Razorpay test mode reproduces exactly one failure reason — `payment_failed` — regardless of which documented "error scenario" card you use; that finding, and everything else learned live, is in [`docs/VERIFIED.md`](docs/VERIFIED.md). Every fact now carries one of three tiers: **1** Razorpay reason observed live, **70** hand-built from documentation — nine card reasons and Razorpay's 61 UPI Autopay reasons — and **225** UPI codes transcribed from NPCI's public specification — of which **92** fit the five failure classes and **133** do not, each with its reason, the most consequential being thirty codes that mean money may already have moved ([`docs/taxonomy.md` §11](docs/taxonomy.md)). None of the 225 has been seen arriving through Razorpay, whose documentation names no field that could carry one; they classify a failure only through a port a Razorpay merchant never feeds.
 - **Subscriptions were unavailable pre-activation**, so the failed-mandate loop is stub-only.
 - **The LLM comparison covers all 12 cells but only at k=1.** One answer per cell measures whether it was right, not whether the model would repeat it — so consistency reports `—` corpus-wide and is measured at depth on one cell only. Free-tier quota, not a design choice: 20 requests a day against a 12-cell corpus.
-- **The `[guess]` fraction is itself a headline result** and appears on the dashboard as prominently as the recovery rate.
+- **The `[guess]` fraction is itself a headline result**: §4 states it, the dashboard carries it in the record beside the headline, and tests tie both to the tags in the simulator's source.
 
-Every amendment to the protocol after registration — sixty-five of them — is logged in §10 with a date, a reason, and a **POST-HOC** flag stating whether it was made with the relevant output already visible. Two rows were re-marked `No → Yes` when the standard was tightened retroactively, including one that had been disclosing honestly before there was a rule requiring it to.
+Every amendment to the protocol after registration — sixty-six of them — is logged in §10 with a date, a reason, and a **POST-HOC** flag stating whether it was made with the relevant output already visible. Two rows were re-marked `No → Yes` when the standard was tightened retroactively, including one that had been disclosing honestly before there was a rule requiring it to.
 
 ---
 
